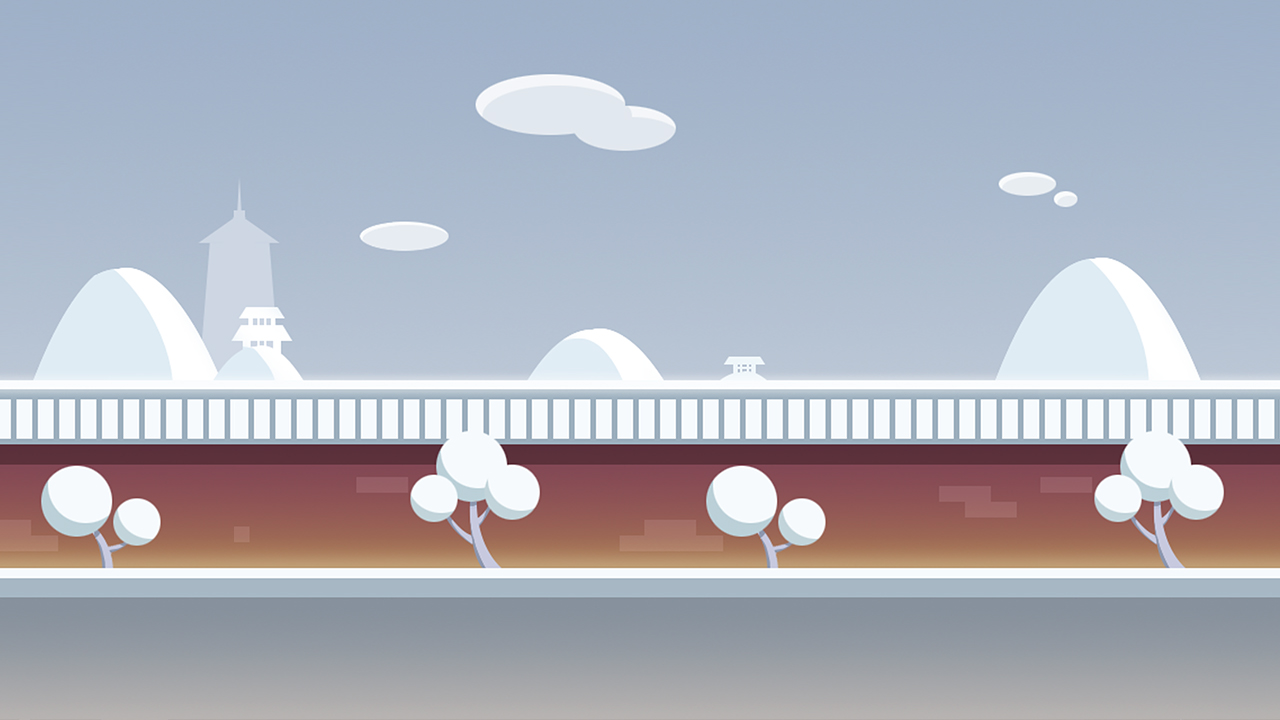
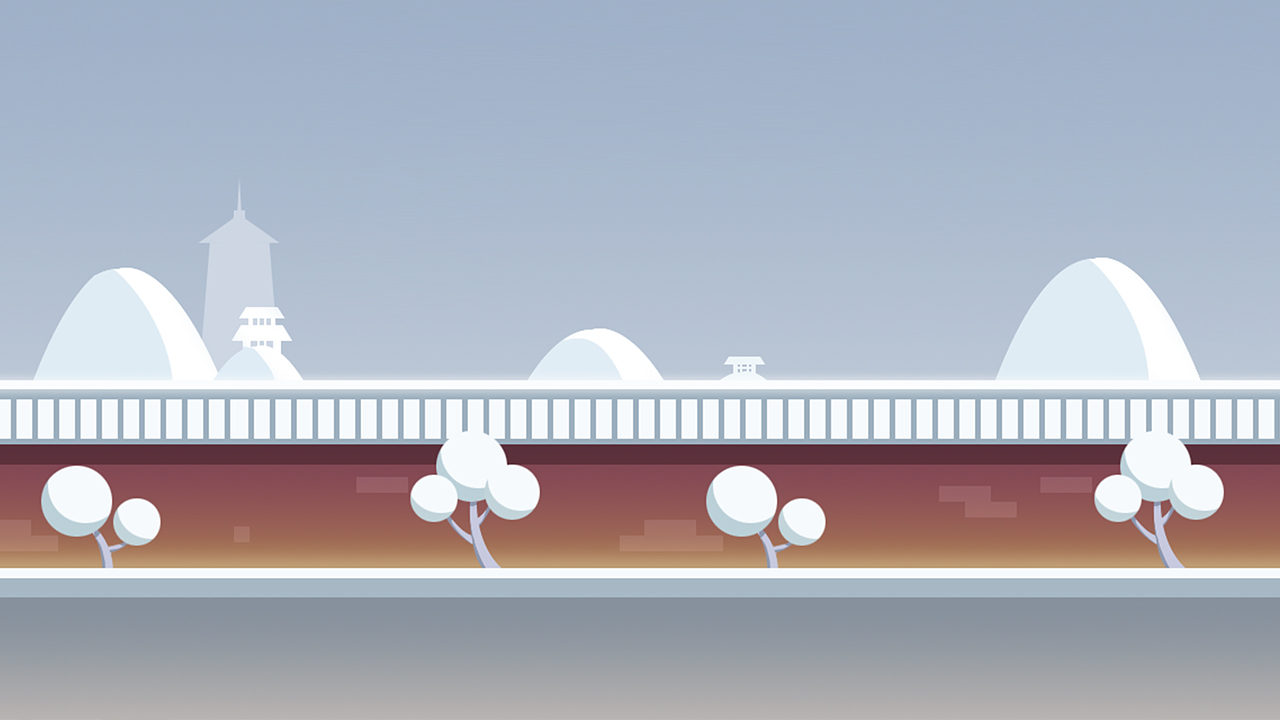
hhx-本地文件提交

Changed region(s): [[0.375, 0.0917, 0.5312, 0.2139], [0.2812, 0.3056, 0.375, 0.3667], [0.7812, 0.2139, 0.8438, 0.3056]]

diff --git a/Classes/gamelayer/GameBgLayer.cpp b/Classes/gamelayer/GameBgLayer.cpp
@@ -14,9 +14,84 @@ GameBgLayer::~GameBgLayer(){
 }
 bool GameBgLayer::init(){
     if (Layer::init()) {
+        initBg();
+        initClound();
         return true;
     }
     return false;
 }
 void GameBgLayer::initBg(){
+    Size size = Director::getInstance()->getWinSize();
+    m_bg1 = Sprite::create("main_bg.jpg");
+    m_bg1->setAnchorPoint(Vec2(0, 0));
+    m_bg1->setPosition(0, 0);
+    addChild(m_bg1);
+    m_bg2 = Sprite::create("main_bg.jpg");
+    m_bg2->setAnchorPoint(Vec2(0, 0));
+    m_bg2->setPosition(0, 0);
+    addChild(m_bg2);
 }
+void GameBgLayer::initClound(){
+    Size size = Director::getInstance()->getWinSize();
+    m_Cloud1 = Sprite::create("game_cloud1.png");
+    m_Cloud1->setAnchorPoint(Vec2(0, 0));
+    m_Cloud1->setPosition(size.width, size.height/2);
+    addChild(m_Cloud1);
+    clound1AC();
+    
+    m_Cloud2 = Sprite::create("game_cloud2.png");
+    m_Cloud2->setAnchorPoint(Vec2(0, 0));
+    m_Cloud2->setPosition(size.width, size.height*3/4);
+    addChild(m_Cloud2);
+    clound2AC();
+    
+    m_Cloud3 = Sprite::create("game_cloud3.png");
+    m_Cloud3->setAnchorPoint(Vec2(0,0));
+    m_Cloud3->setPosition(size.width, size.height*5/8);
+    addChild(m_Cloud3);
+    clound3AC();
+}
+void GameBgLayer::clound1AC(){
+    Size size = Director::getInstance()->getWinSize();
+    MoveTo* moveClound11 = MoveTo::create(10, Point(size.width/4,size.height*5/8));
+    MoveTo* moveClound12 = MoveTo::create(3.3f, Point(-m_Cloud1->getContentSize().width,size.height/2));
+    Sequence* seq = Sequence::create(moveClound11,moveClound12,CallFunc::create(CC_CALLBACK_0(GameBgLayer::initClound1Pos, this)), NULL);
+    m_Cloud1->runAction(RepeatForever::create(seq));
+}
+void GameBgLayer::clound2AC(){
+    Size size = Director::getInstance()->getWinSize();
+    MoveTo* moveClound11 = MoveTo::create(10, Point(size.width/2,size.height*7/8));
+    MoveTo* moveClound12 = MoveTo::create(10, Point(-m_Cloud1->getContentSize().width,size.height*3/4));
+    Sequence* seq = Sequence::create(DelayTime::create(3), moveClound11,moveClound12,CallFunc::create(CC_CALLBACK_0(GameBgLayer::initClound1Pos, this)), NULL);
+    m_Cloud1->runAction(RepeatForever::create(seq));
+}
+void GameBgLayer::clound3AC(){
+    Size size = Director::getInstance()->getWinSize();
+    MoveTo* moveClound11 = MoveTo::create(5, Point(size.width*3/4,size.height*3/4));
+    MoveTo* moveClound12 = MoveTo::create(12, Point(-m_Cloud1->getContentSize().width,size.height*3/4));
+    Sequence* seq = Sequence::create(DelayTime::create(7),moveClound11,moveClound12,CallFunc::create(CC_CALLBACK_0(GameBgLayer::initClound1Pos, this)), NULL);
+    m_Cloud1->runAction(RepeatForever::create(seq));
+}
+void GameBgLayer::initClound1Pos(){
+    Size size = Director::getInstance()->getWinSize();
+    m_Cloud1->setPosition(size.width, size.height/2);
+}
+void GameBgLayer::initClound2Pos(){
+    Size size = Director::getInstance()->getWinSize();
+    m_Cloud2->setPosition(size.width, size.height*3/4);
+}
+void GameBgLayer::initClound3Pos(){
+    Size size = Director::getInstance()->getWinSize();
+    m_Cloud3->setPosition(size.width, size.height*5/8);
+}
+void GameBgLayer::update(float dx){
+}
+
+
+
+
+
+
+
+
+

diff --git a/Classes/gamescene/GameMainScene.cpp b/Classes/gamescene/GameMainScene.cpp
@@ -5,8 +5,16 @@ USING_NS_CC;
 
 GameMainScene::GameMainScene():
 m_gamemainLayer(NULL),
-m_mianMenuLayer(NULL)
+m_mianMenuLayer(NULL),
+m_bgLayer(NULL)
 {
+    SpriteFrameCache::getInstance()->addSpriteFramesWithFile("menus.plist", "menus.png");
+    SpriteFrameCache::getInstance()->addSpriteFramesWithFile("game_item.plist", "game_item.png");
+}
+GameMainScene::~GameMainScene(){
+    SpriteFrameCache::getInstance()->removeSpriteFramesFromFile("loadinglayer.plist");
+    SpriteFrameCache::getInstance()->removeSpriteFramesFromFile("menus.plist");
+    SpriteFrameCache::getInstance()->removeSpriteFramesFromFile("game_item.plist");
 }
 bool GameMainScene::init()
 {
@@ -28,10 +36,15 @@ void GameMainScene::initGameAlertLayer(gameStatus gameS){
     this->addChild(m_mianMenuLayer,1);
    
 }
+void GameMainScene::initGameBgLayer(){
+    m_bgLayer = GameBgLayer::create();
+    this->addChild(m_bgLayer);
+}
 GameMainScene* GameMainScene::createWithTag(gameStatus gameS){
     GameMainScene* sc = new GameMainScene();
     if (sc->init()) {
         GameMainHelper::getInstance()->atachScene(sc);
+        sc->initGameBgLayer();
         sc->initMainLayer();
         sc->initGameAlertLayer(gameS);
         return sc;
@@ -84,6 +97,13 @@ std::string GameMainScene::cutOff(){
     // 恢复屏幕尺寸
     
     return fullPath;
+}
+void GameMainScene::onEnter(){
+    Scene::onEnter();
+}
+void GameMainScene::onExit(){
+    Scene::onExit();
+   
 }
 
 

diff --git a/Classes/gamescene/GameMainScene.h b/Classes/gamescene/GameMainScene.h
@@ -3,17 +3,21 @@
 
 #include "cocos2d.h"
 #include "menulayer/MainLayer.h"
-#include "GameMainLayer.h"
+#include "gamelayer/GameMainLayer.h"
+#include "gamelayer/GameBgLayer.h"
 class GameMainScene : public cocos2d::Scene
 {
 private:
     GameMainScene();
+    ~GameMainScene();
     GameMainLayer* m_gamemainLayer;
     MainLayer* m_mianMenuLayer;
+    GameBgLayer* m_bgLayer;
 public:
     bool init();
     void initMainLayer();
     void initGameAlertLayer(gameStatus gameS);
+    void initGameBgLayer();
     
     // a selector callback
     //CREATE_FUNC(GameMainScene);
@@ -21,6 +25,9 @@ public:
     void startGame();
     void gameOver();
     std::string cutOff();
+    
+    void onEnter();
+    void onExit();
 };
 
 #endif // __HELLOWORLD_SCENE_H__

diff --git a/Classes/gamelayer/GameBgLayer.h b/Classes/gamelayer/GameBgLayer.h
@@ -16,12 +16,25 @@ class GameBgLayer :public Layer{
     GameBgLayer();
     ~GameBgLayer();
 private:
-    Sprite* bg1 = NULL;
-    Sprite* bg2 = NULL;
+    Sprite* m_bg1 = NULL;
+    Sprite* m_bg2 = NULL;
+    
+    Sprite* m_Cloud1 = NULL;
+    Sprite* m_Cloud2 = NULL;
+    Sprite* m_Cloud3 = NULL;
     
     bool init();
     void initBg();
+    void initClound();
 public:
     CREATE_FUNC(GameBgLayer);
+    void update(float dx);
+    void initClound1Pos();
+    void initClound2Pos();
+    void initClound3Pos();
+public:
+    void clound1AC();
+    void clound2AC();
+    void clound3AC();
 };
 #endif /* defined(__GwsJump__GameBgLayer__) */

diff --git a/Classes/menulayer/MainLayer.cpp b/Classes/menulayer/MainLayer.cpp
@@ -13,13 +13,11 @@
 #include "helper/CommomData.h"
 #define menuStartTag 1
 MainLayer::MainLayer(){
-    SpriteFrameCache::getInstance()->addSpriteFramesWithFile("menus.plist", "menus.png");
+   
 
 }
 MainLayer::~MainLayer(){
 
-    SpriteFrameCache::getInstance()->removeSpriteFramesFromFile("loadinglayer.plist");
-    SpriteFrameCache::getInstance()->removeSpriteFramesFromFile("menus.plist");
 }
 MainLayer* MainLayer::create(gameStatus status){
     MainLayer* layer = new MainLayer();
